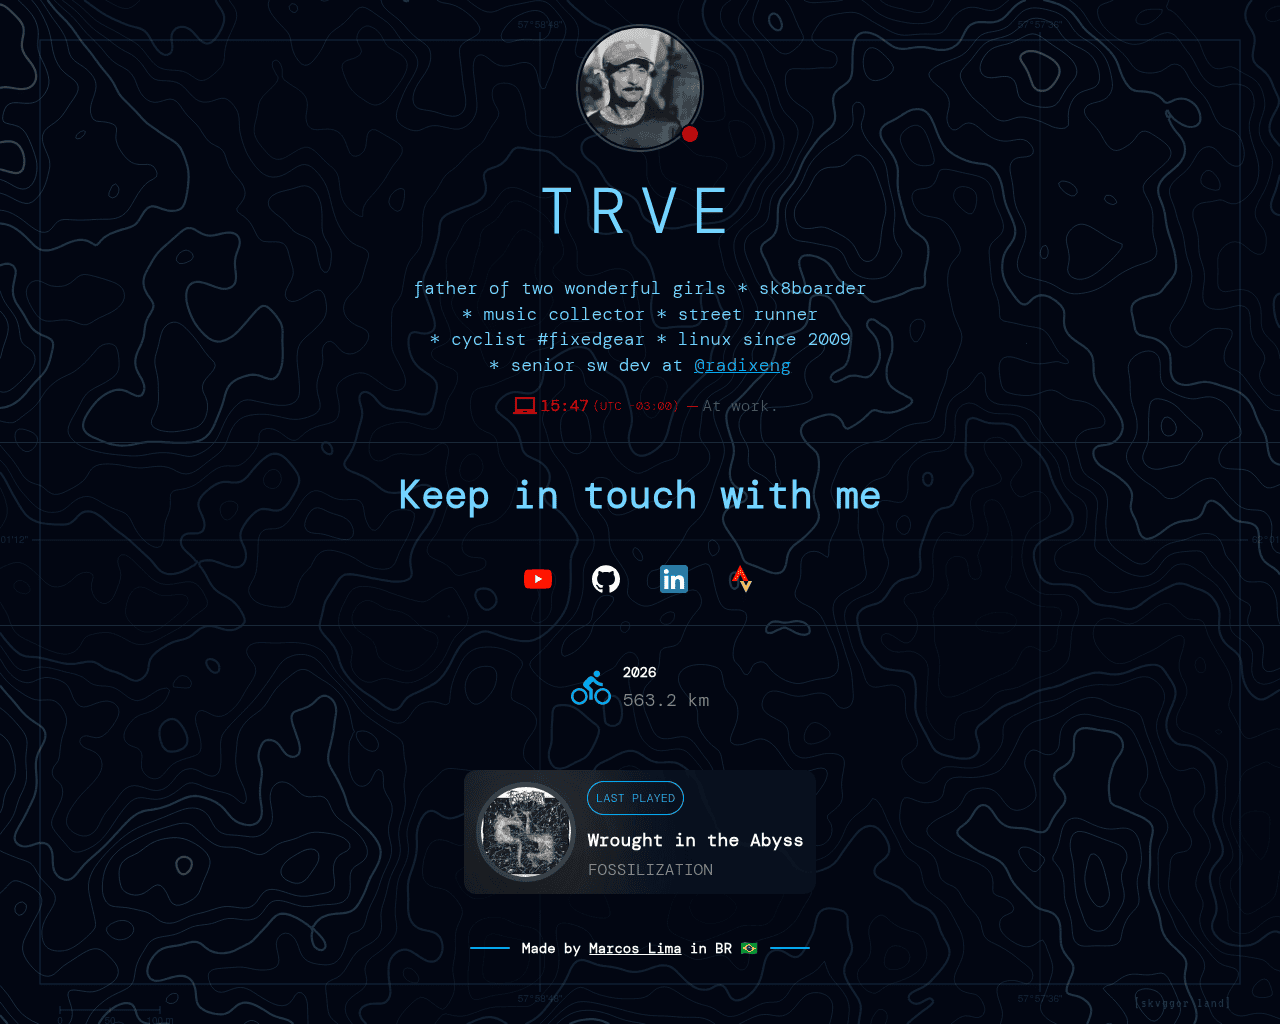
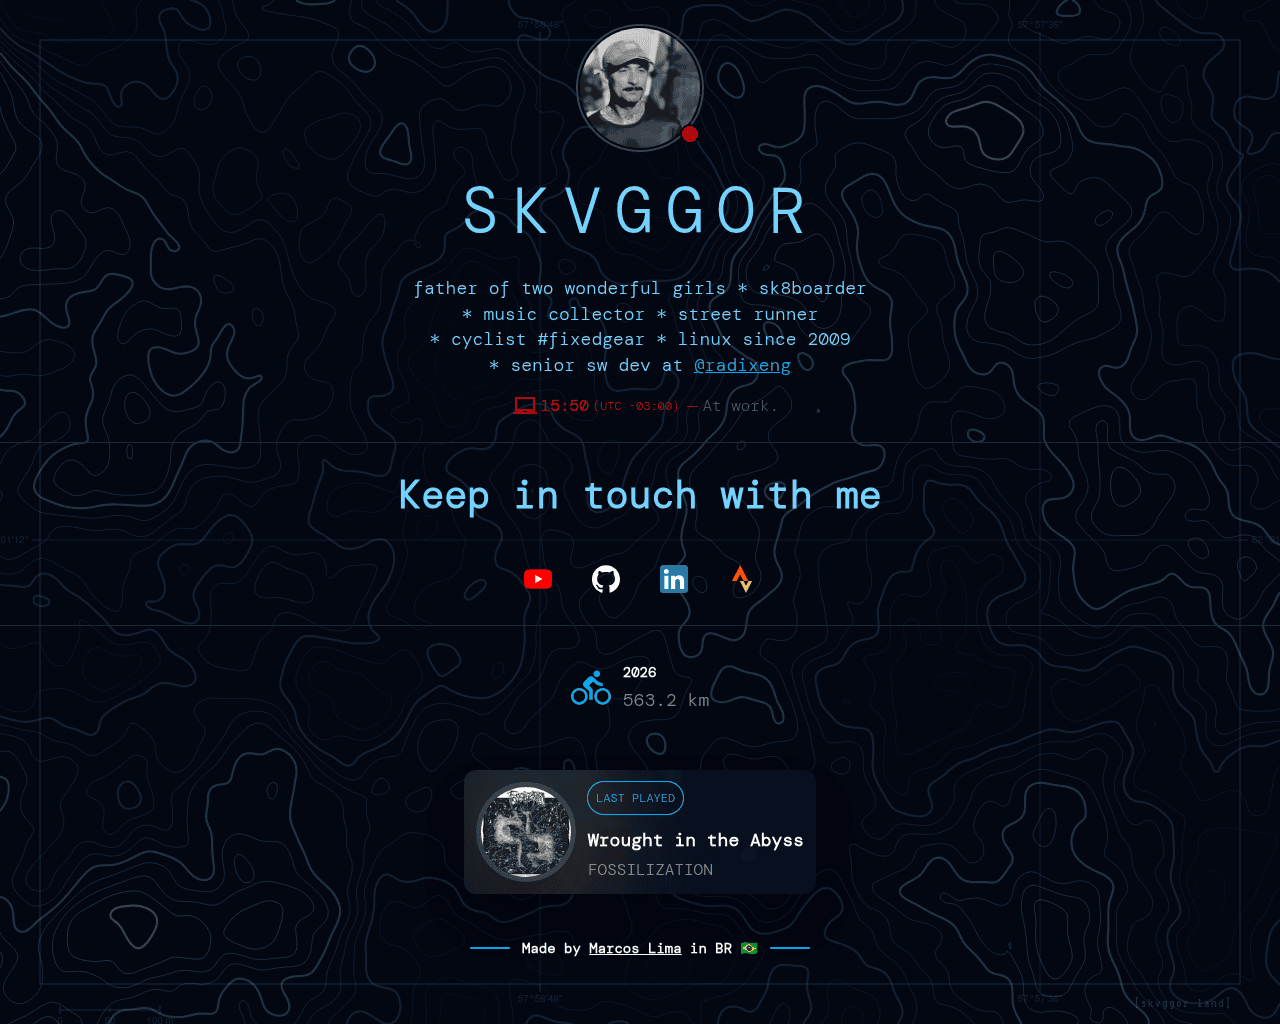
Document SITE_DOMAIN and environment variables in README

diff --git a/README.md b/README.md
@@ -35,6 +35,19 @@ npm install
 cp .env.example .env
 ```
 
+## Environment Variables
+
+| Variable | Description | Required |
+|----------|-------------|----------|
+| `APP_ENV` | Environment mode (`development` or `production`) | No |
+| `SITE_DOMAIN` | Custom domain name displayed in header | No |
+| `URL_STRAVA_API_DEV` | Strava API URL for development | No |
+| `URL_STRAVA_API_PROD` | Strava API URL for production | No |
+| `URL_LASTFM_API_DEV` | Last.fm API URL for development | No |
+| `URL_LASTFM_API_PROD` | Last.fm API URL for production | No |
+| `URL_STATUS_API_DEV` | Status API URL for development | No |
+| `URL_STATUS_API_PROD` | Status API URL for production | No |
+
 ### Run Development Server
 
 ```bash
